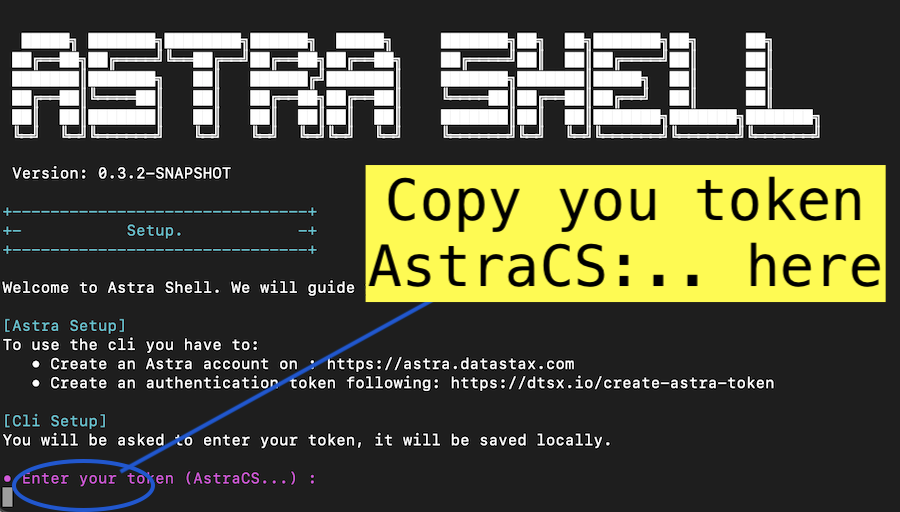
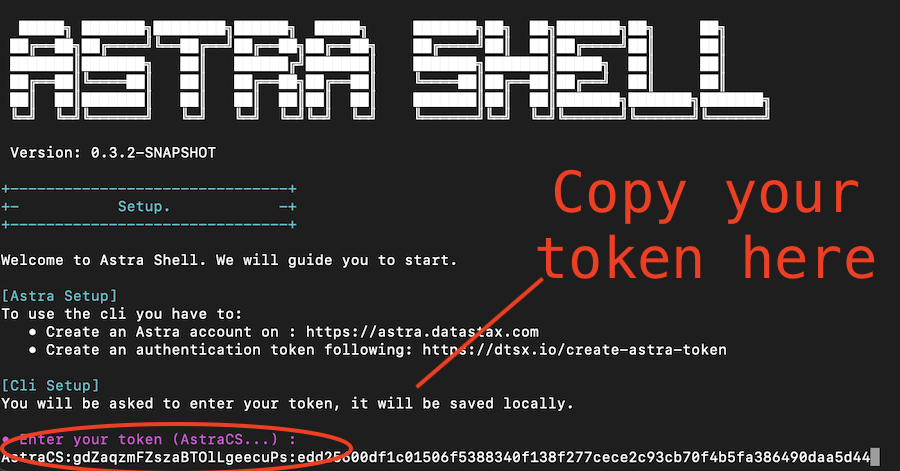
OK

diff --git a/astra-shell/README.MD b/astra-shell/README.MD
@@ -35,13 +35,13 @@ curl -Ls "https://dtsx.io/get-astra-cli" | bash
 
 ### 1.3 - Setup
 
-#### ✅ Step 1.3.a. Execute `startup` command
+#### ✅ Step 1.3.a - Execute `startup` command
 
 ```
 astra setup
 ```
 
-#### ✅ Step 1.3.b. Provide a token of your choice when needed
+#### ✅ Step 1.3.b - Provide a token of your choice when needed
 
 ```
 Enter your token (AstraCS...) : 
@@ -50,48 +50,84 @@ AstraCS:.......
 
 ![](https://github.com/datastax/astra-sdk-java/blob/main/docs/img/astra-shell-config.png?raw=true")
 
-#### ✅ Step 1.3.b. Open a `new` shell to finalize install
+```
+[What's NEXT ?]
+You are all set. You can now:
+   • Use any command, 'astra help' will get you the list
+   • Try with 'astra db list'
+   • Enter interactive mode using 'astra'
+
+Happy Coding !
+```
+
+#### ✅ Step 1.3.c - Open a `NEW` shell to finalize install
+
+- Get the current version
 
 ```
 astra --version
+```
+
+- Get some more informations
+
+```
 astra help
 ```
 
-## 2. Configuration Management
-
-- **List Configurations**
-
-```
-astra config list
-```
-
-- **Create new configuration** 
-
-If you have multiple organizations it could be useful to switch from one to another. To create another config, the latest created org will become the default.
-
-```
-astra config create dev -t <token_of_org_2>
-```
-
-```
-astra config list
-```
-
-When you issue any command the config is now loaded for you:
+- Use you configuration (spoiler)
 
 ```
 astra user list
 ```
 
-- **Change default configuration**: 
+## 2. Configuration Management
+
+#### ✅ Step 2.1 - List Configuration
+
+- In your configuration file you see all config and one is the default. This is the one used when no option provided.
+
+```
+astra config list
+```
+
+#### ✅ Step 2.2 - Create new configuration
+
+If you have multiple organizations it could be useful to switch from one to another.
+
+- Create another org called `dev`
+
+```
+astra config create dev -t <token_of_org_2>
+```
+
+- Look at the new list with `dev`
+
+```
+astra config list
+```
+
+- But nothing change your are still on default
+
+```
+astra user list
+```
+
+#### ✅ Step 2.3 - Change default configuration
 
 You can change the default org at any time with the following command:
 
+- Change the default
 ```
-astra config default dev && astra config list
+astra config default dev
 ```
 
-- Test again, user list should be different
+- See your new list 
+
+ ```
+ astra config list
+ ```
+
+- Test again, user list should be different now
 
 ```
 astra user list
@@ -109,63 +145,85 @@ astra config default cedrick.lunven@datastax.com && astra config list
 astra user list --config dev
 ```
 
-- **Delete configuration**
+#### ✅ Step 2.4 = Delete configuration
 
 You can delete any organization. I see you.. if you delete the default one you are on your own and you would need to define a new one.
 
+- Delete you config
 ```
 astra config delete dev
+```
+
+- See the new list
+
+```
 astra config list
 ```
 
 ## 3. Working with Databases
 
-- **List Databases**:
+#### ✅ Step 3.1 List Databases
 
 ```
 astra db list
 ```
 
-- **Create a new database:** 
+#### ✅ Step 3.2 Create a new database
 
 If not provided the region will be the default free region and the keyspace will be the database name but you can change then with `-r` and `-k` respectivitely.
 
+- Create the Database
+
 ```
 astra db create demo
+```
+
+- Check the status
+
+```
 astra db list
 ```
 
-- **Get information on your database**
-
-Notice how you never provide any the technical ids.
+#### ✅ Step 3.3 Get information on your database
 
 ```
 astra db get demo
 ```
 
-- **Change output format**
+> **Note:** You never provided any the technical ids.
+
+
+#### ✅ Step 3.4 Output Format
 
 This CLI wil be used by CI/CD and script, sometimes the output must be parsed. There are 3 outputs: *human,json,csv"
+
+- Show the list as a json
 
 ```
 astra db list -o json
 ```
 
+- Show the list as a csv
+
 ```
 astra db list -o csv
 ```
 
+#### ✅ Step 3.5 Error Code
+
 The return type is also important to check the errors. O mean everything is OK
 
+- Execute command with error
+```
+astra db get i_do_not_exist -v
+```
+
+- Get the error code
 ```
 echo $?
 ```
 
-```
-astra db get i_do_not_exist && echo $?
-```
-
-Error codes tables
+- Error codes table:
 
 | Error             | Code      |
 |-------------------|-----------|
@@ -179,10 +237,14 @@ Error codes tables
 | INTERNAL_ERROR    | 40        |
 
 
-- The cli implemented `If not Exist` for both keyspace and database (convenient for workshops and training)
+#### ✅ Step 3.6 - If not Exists
+
+The cli implemented `If not Exist` for both keyspace and database (convenient for workshops and training)
+
+
+- Run the command with `--if-not-exist`
 
 ```
-astra help db create
 astra db create demo --if-not-exist
 ```
 
@@ -194,21 +256,27 @@ astra db create demo --if-not-exist -v
 
 Make sure the database is now Active or you will get some expected errors.
 
-- **Create a new keyspace**
+```
+astra db get demo | grep ACTIVE
+```
 
+#### ✅ Step 3.7 - Create Keyspace
 ```
 astra db create-keyspace demo -k ks2
 ```
 
-Need helps ?
-```
-astra help db create-keyspace
-```
-
-- Now let's blow your mind 🥁
+- Keyspace is created
 
 ```
-astra db cqlsh demo
+astra db get demo
+```
+
+#### ✅ Step 3.8 - Blow your mind 🥁
+
+The first execution is expected to be slow we are downloading cqlsh if not present on your machine. This is why we put the `-v`.
+
+```
+astra db cqlsh demo -v
 ```
 
 - Quit the shell
@@ -217,15 +285,17 @@ astra db cqlsh demo
 quit;
 ```
 
-- Execute CQL (or CQL file)
+- Execute a CQL statement (or a CQL file with `-f`)
 
 ```
 astra db cqlsh demo -e "describe keyspaces;"
 ```
 
-### D. Interactive mode
+#### ✅ Step 3.9 - Interactive Shell
 
 Commands we used so far are stateless, no connection is maintained after the execution. What if you need more an interactive shell than a cli ?
+
+- Start the shell by do not providing any command
 
 ```
 astra
@@ -243,11 +313,13 @@ db list
 db get demo
 ```
 
-Now what if we want some commands on this particular db ?
+- Now what if we want some commands on this particular db ?
 
 ```
 db use demo
 ```
+
+- Get info of a 
 
 ```
 info
@@ -267,7 +339,7 @@ create keyspace kso
 cqlsh -k kso
 ```
 
-Now quit:
+- No Quit:
 
 ```
 quit;
@@ -275,20 +347,27 @@ quit;
 
 ## 4. Working with Users
 
-- List your users
+#### ✅ Step 4.1 - List your users
 
 ```
 astra user list
 ```
 
-- Invite your best friend (me). The role will be DataStax Administrator by default
+#### ✅ Step 4.2 - Invite your best friend (me). 
+
+- The role will be `DataStax Administrator` by default
 
 ```
 astra user invite cedrick.lunven@datastax.com
-astra db list
 ```
 
-- Delete a user
+- And here I am 
+
+```
+astra user list
+```
+
+#### ✅ Step 4.3 - Delete a user
 
 ```
 astra user delete cedrick.lunven@datastax.com
@@ -296,13 +375,13 @@ astra user delete cedrick.lunven@datastax.com
 
 ## 5. Working with Roles
 
-- List your users
+#### ✅ Step 5.1 - List your roles
 
 ```
 astra role list
 ```
 
-- Delete a user
+#### ✅ Step 5.2 - Get a role
 
 ```
 astra role get "Organization Administrator"
